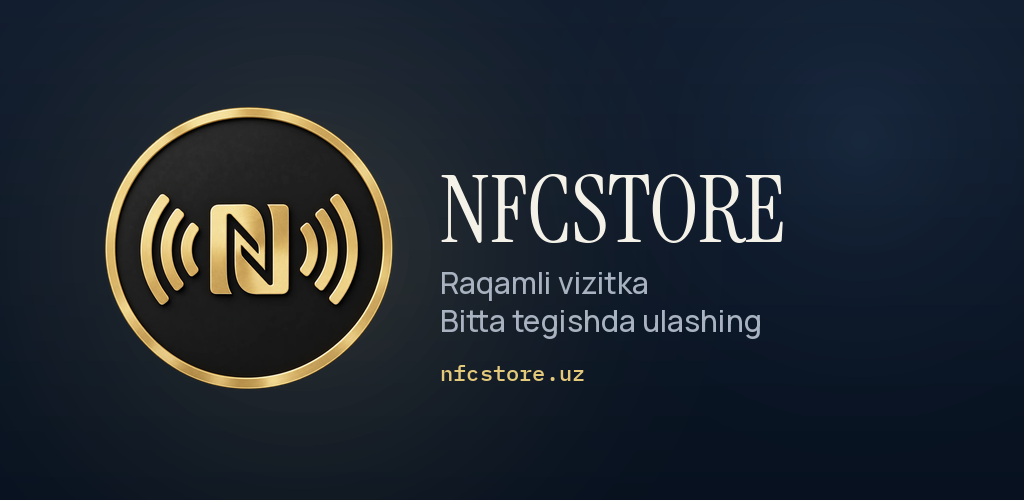
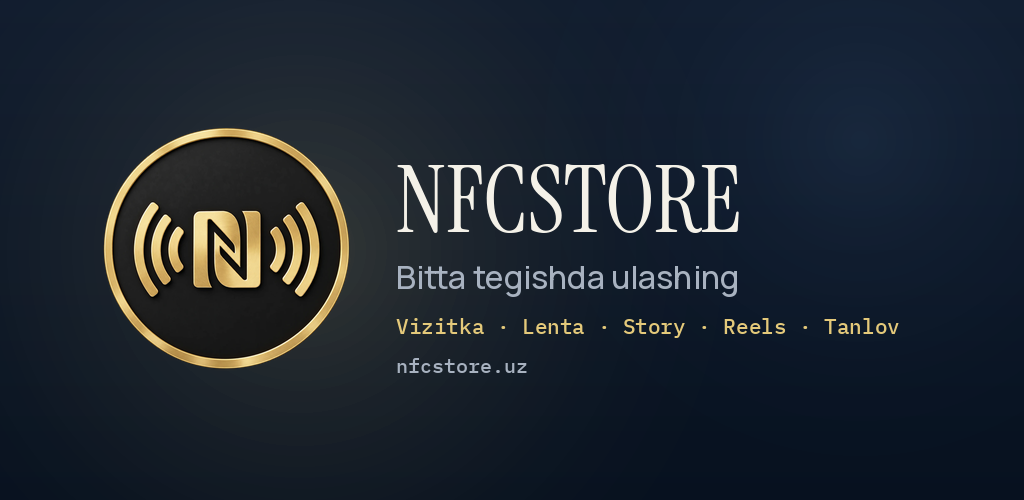
Feature graphic'da ijtimoiy tomon ko'rinmasdi
Rasm faqat "Raqamli vizitka / Bitta tegishda ulashing" deb
turardi. Do'kon sahifasini ochgan odam ilovani vizitka
yasovchi deb tushunib ketardi — lenta, story, reels va
Tanlov borligi bilinmasdi.

Endi matn: NFCSTORE / Bitta tegishda ulashing /
Vizitka - Lenta - Story - Reels - Tanlov / nfcstore.uz

Eng uzun qator o'ng chetdan 124 px beri tugaydi, ya'ni
Google qirqganda ham matn butun qoladi.

Claude-Session: https://claude.ai/code/session_01X3fizJ3F3nvfvUZqdZamcq

Changed region(s): [[0.0938, 0.21, 0.875, 0.78], [0.375, 0.72, 0.5625, 0.78]]

diff --git a/docs/play-assets/build.py b/docs/play-assets/build.py
@@ -73,21 +73,25 @@ def feature():
     img = glow(img, 300, 250, 520, GOLD, 0.20)
     img = glow(img, 860, 140, 420, (120, 170, 230), 0.10)
 
-    logo = Image.open(MARK).convert('RGBA').resize((300, 300), Image.LANCZOS)
-    img.alpha_composite(logo, (96, 100))
+    logo = Image.open(MARK).convert('RGBA').resize((256, 256), Image.LANCZOS)
+    img.alpha_composite(logo, (96, 122))
 
     img = img.convert('RGB')
     d = ImageDraw.Draw(img)
     serif = ImageFont.truetype(f'{FONTS}/InstrumentSerif-400.ttf', 92)
-    sans = ImageFont.truetype(f'{FONTS}/Manrope-500.ttf', 30)
-    mono = ImageFont.truetype(f'{FONTS}/IBMPlexMono-500.ttf', 22)
+    sans = ImageFont.truetype(f'{FONTS}/Manrope-500.ttf', 32)
+    mono = ImageFont.truetype(f'{FONTS}/IBMPlexMono-500.ttf', 21)
+    mono_s = ImageFont.truetype(f'{FONTS}/IBMPlexMono-500.ttf', 20)
 
-    x = 440
-    d.text((x, 150), 'NFCSTORE', font=serif, fill=INK)
-    # Shior ikki qatorda: bitta qatorda 1024 px ga sig'masdi.
-    d.text((x, 262), 'Raqamli vizitka', font=sans, fill=DIM)
-    d.text((x, 300), 'Bitta tegishda ulashing', font=sans, fill=DIM)
-    d.text((x, 358), 'nfcstore.uz', font=mono, fill=GOLD)
+    # Google feature graphic'ni turli o'lchamda qirqadi, shuning uchun
+    # eng uzun qator o'ng chetdan 100 px dan yaqin kelmasligi kerak.
+    x = 396
+    d.text((x, 140), 'NFCSTORE', font=serif, fill=INK)
+    d.text((x, 254), 'Bitta tegishda ulashing', font=sans, fill=DIM)
+    # Ilova faqat vizitka emas — ijtimoiy tomoni ham shu qatorda.
+    d.text((x, 312), 'Vizitka \u00b7 Lenta \u00b7 Story \u00b7 Reels \u00b7 Tanlov',
+           font=mono, fill=GOLD)
+    d.text((x, 352), 'nfcstore.uz', font=mono_s, fill=DIM)
     img.save(f'{OUT}/play-feature-1024x500.png')
 
 

diff --git a/docs/play-assets/README.md b/docs/play-assets/README.md
@@ -36,6 +36,18 @@ Shriftlar ham ilovadan: `InstrumentSerif` (nom), `Manrope`
 
     python3 docs/play-assets/build.py
 
+## Feature graphic matni
+
+    NFCSTORE
+    Bitta tegishda ulashing
+    Vizitka · Lenta · Story · Reels · Tanlov
+    nfcstore.uz
+
+Uchinchi qator ATAYIN qo'shilgan: ilova faqat vizitka emas,
+ijtimoiy tomoni ham bor. Play qidiruvi feature graphic matnini
+o'qimaydi, lekin odam birinchi shu rasmni ko'radi — "vizitka"
+deb tushunib ketmasligi kerak.
+
 ## Feature graphic haqida ogohlantirish
 
 Google uni turli o'lchamda QIRQADI. Shuning uchun matn markazga
